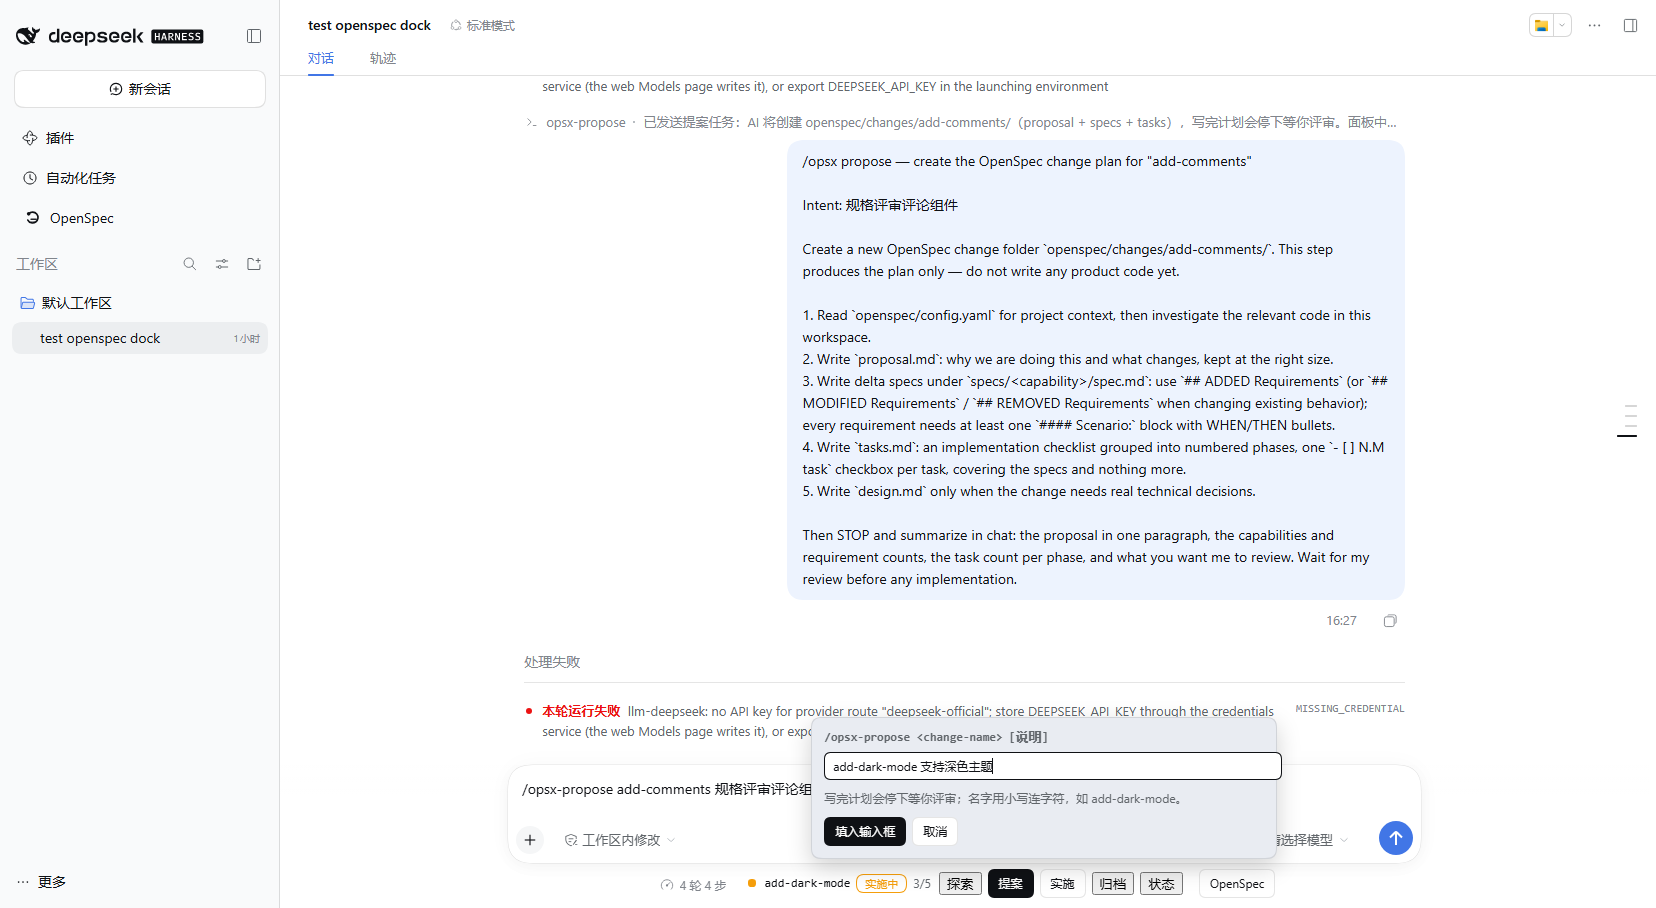
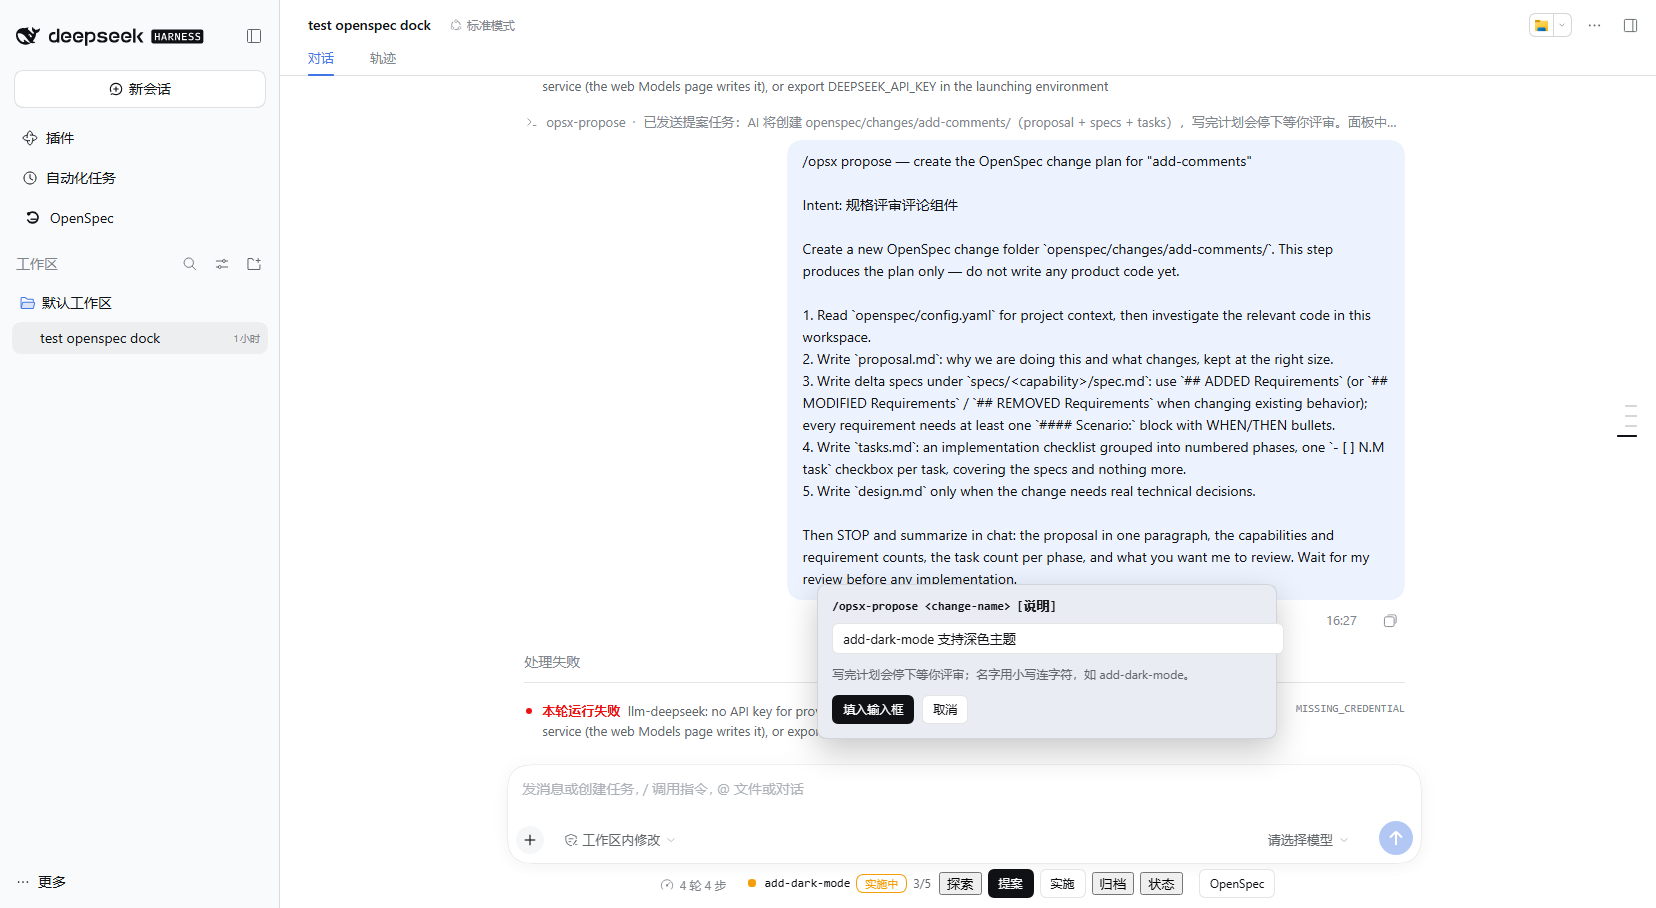
fix(ui): 弹出卡上移避开会话输入框，视觉打磨（焦点环/阴影/字号）

Changed region(s): [[0.308, 0.6476, 0.7699, 0.9559], [0.8315, 0.8943, 0.8623, 0.9559]]

diff --git a/lib/client.js b/lib/client.js
@@ -160,13 +160,13 @@ function createOpenSpecPlugin(require) {
     '.dshspec-dockName{font-family:ui-monospace,SFMono-Regular,Menlo,Consolas,monospace;color:var(--dsw-alias-label-primary);}',
     '.dshspec-actwrap{display:contents;}',
     '.dshspec-popanchor{position:relative;}',
-    '.dshspec-popover{position:absolute;right:0;bottom:calc(100% + 8px);z-index:60;width:min(440px,calc(100vw - 64px));background:var(--dsw-alias-bg-overlay);border:0.5px solid var(--dsw-alias-border-l2);border-radius:var(--dsw-radius-md,10px);box-shadow:0 8px 24px rgba(0,0,0,0.18);padding:12px;display:flex;flex-direction:column;gap:8px;}',
-    '.dshspec-popTitle{font-size:12px;font-weight:600;color:var(--dsw-alias-label-secondary);font-family:ui-monospace,SFMono-Regular,Menlo,Consolas,monospace;}',
-    '.dshspec-popActions{display:flex;gap:6px;flex-wrap:wrap;align-items:center;}',
+    '.dshspec-popover{position:absolute;right:0;bottom:calc(100% + 128px);z-index:60;width:min(430px,calc(100vw - 64px));background:var(--dsw-alias-bg-overlay);border:0.5px solid var(--dsw-alias-border-l2);border-radius:var(--dsw-radius-md,10px);box-shadow:0 12px 32px rgba(0,0,0,0.22);padding:14px;display:flex;flex-direction:column;gap:10px;}',
+    '.dshspec-popTitle{font-size:12px;font-weight:600;color:var(--dsw-alias-label-primary);font-family:ui-monospace,SFMono-Regular,Menlo,Consolas,monospace;}',
+    '.dshspec-popActions{display:flex;gap:8px;flex-wrap:wrap;align-items:center;}',
     '.dshspec-popRow{cursor:pointer;text-align:left;width:100%;background:transparent;border:0.5px solid transparent;color:inherit;font:inherit;font-size:12px;border-radius:var(--dsw-radius-sm,6px);padding:6px 8px;display:flex;gap:8px;align-items:center;}',
     '.dshspec-popRow:hover{background:var(--dsw-alias-interactive-bg-hover,var(--dsw-alias-bg-layer-2));border-color:var(--dsw-alias-border-l1);}',
-    '.dshspec-input{width:100%;background:var(--dsw-alias-bg-layer-1);color:var(--dsw-alias-label-primary);border:0.5px solid var(--dsw-alias-border-l2);border-radius:var(--dsw-radius-sm,6px);padding:5px 8px;font:inherit;font-size:12px;}',
-    '.dshspec-input:focus{outline:none;border-color:var(--dsw-alias-brand-primary);}',
+    '.dshspec-input{width:100%;background:var(--dsw-alias-bg-layer-1);color:var(--dsw-alias-label-primary);border:0.5px solid var(--dsw-alias-border-l2);border-radius:var(--dsw-radius-sm,6px);padding:6px 10px;font:inherit;font-size:13px;}',
+    '.dshspec-input:focus{outline:none;border-color:var(--dsw-alias-brand-primary);box-shadow:0 0 0 1px var(--dsw-alias-brand-primary);}',
   ].join('\n')
 
   /** Inject the stylesheet once, tagged like shipped plugin CSS. */

diff --git a/src/client.js b/src/client.js
@@ -160,13 +160,13 @@ function createOpenSpecPlugin(require) {
     '.dshspec-dockName{font-family:ui-monospace,SFMono-Regular,Menlo,Consolas,monospace;color:var(--dsw-alias-label-primary);}',
     '.dshspec-actwrap{display:contents;}',
     '.dshspec-popanchor{position:relative;}',
-    '.dshspec-popover{position:absolute;right:0;bottom:calc(100% + 8px);z-index:60;width:min(440px,calc(100vw - 64px));background:var(--dsw-alias-bg-overlay);border:0.5px solid var(--dsw-alias-border-l2);border-radius:var(--dsw-radius-md,10px);box-shadow:0 8px 24px rgba(0,0,0,0.18);padding:12px;display:flex;flex-direction:column;gap:8px;}',
-    '.dshspec-popTitle{font-size:12px;font-weight:600;color:var(--dsw-alias-label-secondary);font-family:ui-monospace,SFMono-Regular,Menlo,Consolas,monospace;}',
-    '.dshspec-popActions{display:flex;gap:6px;flex-wrap:wrap;align-items:center;}',
+    '.dshspec-popover{position:absolute;right:0;bottom:calc(100% + 128px);z-index:60;width:min(430px,calc(100vw - 64px));background:var(--dsw-alias-bg-overlay);border:0.5px solid var(--dsw-alias-border-l2);border-radius:var(--dsw-radius-md,10px);box-shadow:0 12px 32px rgba(0,0,0,0.22);padding:14px;display:flex;flex-direction:column;gap:10px;}',
+    '.dshspec-popTitle{font-size:12px;font-weight:600;color:var(--dsw-alias-label-primary);font-family:ui-monospace,SFMono-Regular,Menlo,Consolas,monospace;}',
+    '.dshspec-popActions{display:flex;gap:8px;flex-wrap:wrap;align-items:center;}',
     '.dshspec-popRow{cursor:pointer;text-align:left;width:100%;background:transparent;border:0.5px solid transparent;color:inherit;font:inherit;font-size:12px;border-radius:var(--dsw-radius-sm,6px);padding:6px 8px;display:flex;gap:8px;align-items:center;}',
     '.dshspec-popRow:hover{background:var(--dsw-alias-interactive-bg-hover,var(--dsw-alias-bg-layer-2));border-color:var(--dsw-alias-border-l1);}',
-    '.dshspec-input{width:100%;background:var(--dsw-alias-bg-layer-1);color:var(--dsw-alias-label-primary);border:0.5px solid var(--dsw-alias-border-l2);border-radius:var(--dsw-radius-sm,6px);padding:5px 8px;font:inherit;font-size:12px;}',
-    '.dshspec-input:focus{outline:none;border-color:var(--dsw-alias-brand-primary);}',
+    '.dshspec-input{width:100%;background:var(--dsw-alias-bg-layer-1);color:var(--dsw-alias-label-primary);border:0.5px solid var(--dsw-alias-border-l2);border-radius:var(--dsw-radius-sm,6px);padding:6px 10px;font:inherit;font-size:13px;}',
+    '.dshspec-input:focus{outline:none;border-color:var(--dsw-alias-brand-primary);box-shadow:0 0 0 1px var(--dsw-alias-brand-primary);}',
   ].join('\n')
 
   /** Inject the stylesheet once, tagged like shipped plugin CSS. */
